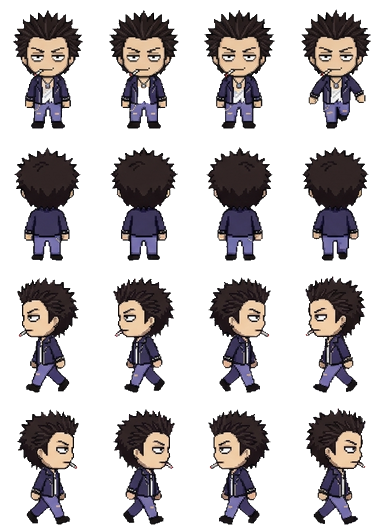
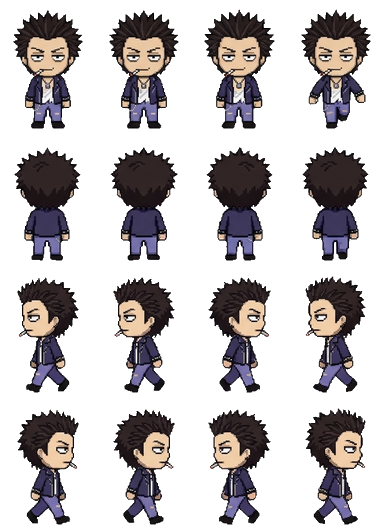
혼죠 렌 흰 셔츠 누끼 복원
Claude-Session: https://claude.ai/code/session_01KaPsBYLrtbRfMYNG2xeBCK

Changed region(s): [[0.3438, 0.1515, 0.4062, 0.2121], [0.125, 0.697, 0.1562, 0.7273]]

diff --git a/docs/app.js b/docs/app.js
@@ -48,7 +48,7 @@ function spr(cat, k, col, sc) {
   return `<div class="clip" style="width:${it[2] * sc}px;height:${it[3] * sc}px;POS"><img class="px" src="assets/decor/${cat}.png" alt="" style="width:${S.sw * sc}px;height:${S.sh * sc}px;margin-left:${-col * S.cw * sc}px;margin-top:${-i * S.ch * sc}px"></div>`;
 }
 const icon = (k, sz) => `<span class="itm" style="width:${sz}px;height:${sz}px"><img class="px" src="assets/ui/items.png" alt="" style="width:${IT.length * sz}px;height:${sz}px;margin-left:${-ITM[k].i * sz}px"></span>`;
-const face = (id, w) => { const s = w / 96; return `<img class="px" src="assets/ch/${id}.webp?v=13" alt="" style="position:absolute;width:${384 * s}px;height:${528 * s}px;left:${-(96 * s - w) / 2}px;top:0;max-width:none">`; };
+const face = (id, w) => { const s = w / 96; return `<img class="px" src="assets/ch/${id}.webp?v=14" alt="" style="position:absolute;width:${384 * s}px;height:${528 * s}px;left:${-(96 * s - w) / 2}px;top:0;max-width:none">`; };
 
 // ---------- 저장 ----------
 let fb = null, user = null, S = null, saveT = null;
@@ -115,7 +115,7 @@ function sleepHTML(id, r) {
   const pos = r.a && r.a[0] === 'bed' ? 'left:3%;bottom:20%' : r.b && r.b[0] === 'bed' ? 'right:3%;bottom:20%' : 'left:calc(50% - 44px);bottom:6%';
   const s = 36 / 96;
   return `<div style="position:absolute;width:88px;height:56px;${pos};z-index:5"><div style="position:absolute;inset:0;filter:brightness(.22)">
-    <div style="position:absolute;left:11px;top:1px;width:36px;height:50px;overflow:hidden;transform:rotate(-90deg)"><img class="px" src="assets/ch/${id}.webp?v=13" alt="" style="width:${384 * s}px;height:${528 * s}px;max-width:none;margin-top:${-132 * s}px"></div>
+    <div style="position:absolute;left:11px;top:1px;width:36px;height:50px;overflow:hidden;transform:rotate(-90deg)"><img class="px" src="assets/ch/${id}.webp?v=14" alt="" style="width:${384 * s}px;height:${528 * s}px;max-width:none;margin-top:${-132 * s}px"></div>
     <div style="position:absolute;left:19px;top:19px;width:67px;height:29px;border:2px solid var(--ink);border-radius:8px 6px 4px 4px;background:#8ccff5;background-image:repeating-linear-gradient(90deg,transparent 0 10px,rgba(255,255,255,.5) 10px 13px)"></div></div>
     <span class="emo" style="left:8px;top:-22px;color:#5b6bd6">Z z z</span></div>`;
 }
@@ -125,7 +125,7 @@ function roomHTML(id, o, scale) {
     <div class="floor" style="background-color:${PAL[r.fc][1]};background-image:${tileUrl('floor', r.fl)}"></div>
     ${slot('deco', r.dc, 'left:6%;top:6%')}${slot('furn', r.a, 'left:3%;bottom:20%')}${slot('furn', r.b, 'right:3%;bottom:20%')}${slot('prop', r.pr, 'left:28%;bottom:4%;z-index:2')}
     ${id && o.sleeping ? sleepHTML(id, r) : ''}${id && o.job ? `<div style="position:absolute;left:50%;top:38%;transform:translateX(-50%);z-index:5;background:#fff;border:3px solid var(--ink);border-radius:10px;padding:6px 10px;font-size:11px;text-align:center;line-height:1.5"><img src="assets/ui/ic_job.png" alt="" style="width:18px;vertical-align:-4px"> ${esc(JOB_NAME[id])} 알바 중<br><b id="jobleft">${timeLeft(o.job.until)}</b></div>` : ''}
-    ${id ? `<div class="shadow" id="shd"></div><div class="man" id="man"><img class="px" src="assets/ch/${id}.webp?v=13" alt="${esc(nameOf(id))}"></div><span class="emo" id="emo" hidden></span><span class="mumble" id="mum" hidden></span>` : ''}
+    ${id ? `<div class="shadow" id="shd"></div><div class="man" id="man"><img class="px" src="assets/ch/${id}.webp?v=14" alt="${esc(nameOf(id))}"></div><span class="emo" id="emo" hidden></span><span class="mumble" id="mum" hidden></span>` : ''}
     ${o.sleeping ? '<div class="night"></div>' : ''}
   </div>`;
 }

diff --git a/docs/index.html b/docs/index.html
@@ -12,6 +12,6 @@
 <main id="app" aria-live="polite"></main>
 <div id="toast" role="status" hidden></div>
 <script src="firebase-config.js?v=3"></script>
-<script type="module" src="app.js?v=20"></script>
+<script type="module" src="app.js?v=21"></script>
 </body>
 </html>

diff --git a/tk_chars.py b/tk_chars.py
@@ -18,7 +18,7 @@ SIDE = {
     'curly_suit':     dict(left=[(2, 1), (2, 2)], right=[(3, 0), (3, 1), (3, 2), (3, 3)]),
     'blonde_student': dict(left=[(3, 0), (3, 1), (3, 2), (3, 3)], right=None),
     'mole':           dict(left=[(3, 0), (3, 1), (3, 2), (3, 3)], right=None),
-    'punk':           dict(left=[(2, 3), (2, 4), (2, 5), (3, 3)], right=None),
+    'punk':           dict(left=[(2, 3), (2, 4), (2, 5), (3, 3)], right=None, fill_frame=6, outline=True),
     'bartender':      dict(left=[(2, 0), (2, 1), (2, 2), (3, 1)], right=[(2, 3), (2, 4), (3, 3), (3, 4)], fill_frame=6, outline=True),
     'curly_coat':     dict(left=[(2, 0), (2, 1), (2, 2), (2, 3)], right=None),
     'baseball':       dict(left=[(3, 0), (3, 1), (3, 2), (2, 0)], right=[(2, 1), (2, 2), (2, 3), (2, 4)], trim_front=True, clean_front=True, down=[0, 1, 2], nolegpeel=True),
